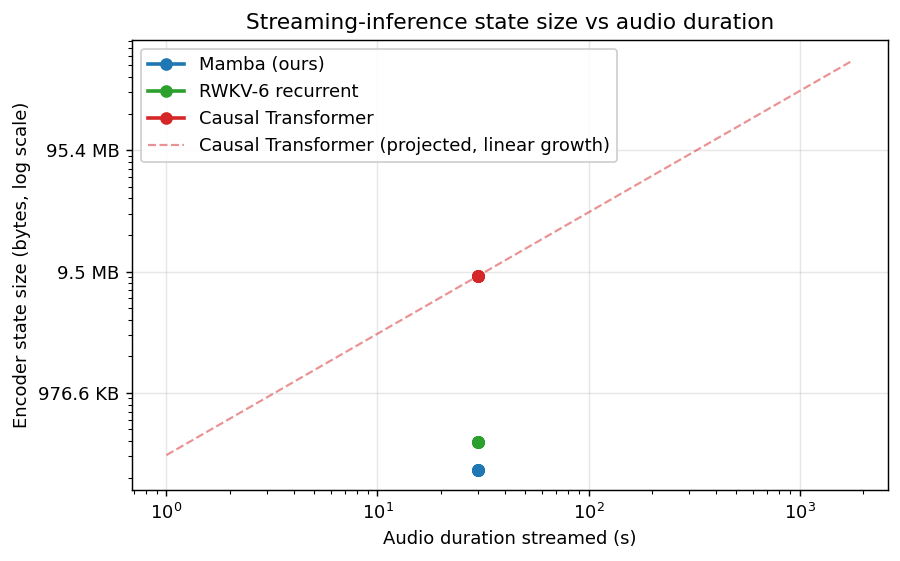
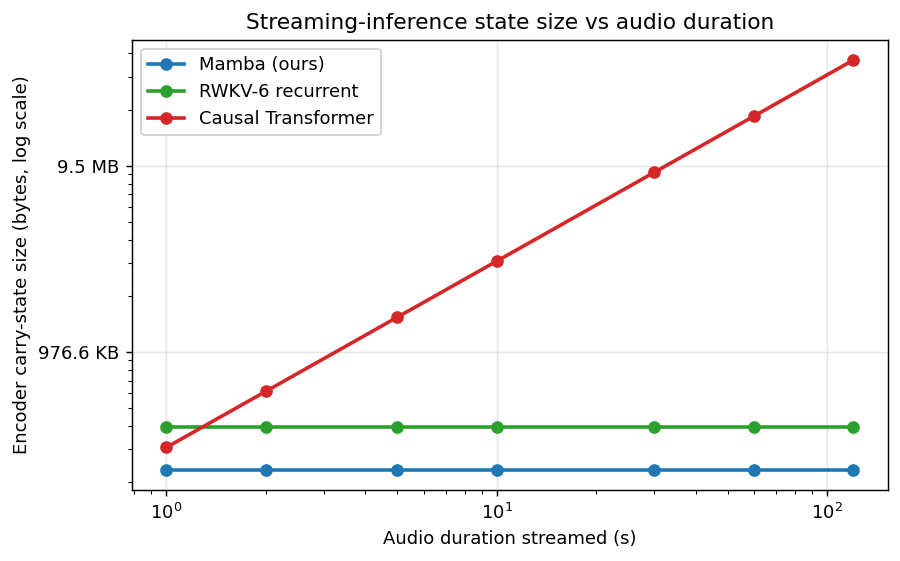
measure_streaming_memory: sweep audio duration instead of chunk size
The first pass measured state size at 6 different chunk sizes but always
at the same 30-second total duration, so all points stacked on top of
each other in the plot. Constant-state backbones need variation in the
*total streamed duration* to reveal the flat-line shape.

New behavior: for each backbone, stream synthetic post-frontend features
of lengths {1, 2, 5, 10, 30, 60, 120} seconds through the encoder in
fixed 2-second chunks, and record the final carry-state size.

Measured result (d_model=256, n_layers=6):
  Mamba:               228 KB  (flat across all durations)
  RWKV-6:              384 KB  (flat across all durations)
  Causal Transformer: 300 KB → 36 MB  (linear growth, 1 s → 120 s)

Plot module no longer needs a projected-growth dashed line — the measured
points span two orders of magnitude on their own and the shape is
self-evident.

diff --git a/experiments/formal_v1/scripts/measure_streaming_memory.py b/experiments/formal_v1/scripts/measure_streaming_memory.py
@@ -43,11 +43,14 @@ from src.models.encoder import build_encoder
 
 SUPPORTED_BACKBONES = ["mamba", "rwkv6", "transformer_causal"]
 
-# The chunk lengths we sweep, in seconds of raw audio. With the standard
-# 10 ms hop and 4× downsampling in the frontend, each chunk corresponds to
-# chunk_sec * 25 post-frontend frames.
-CHUNK_SECONDS = [0.5, 1.0, 2.0, 5.0, 10.0, 30.0]
-TOTAL_DURATION_SEC = 30.0
+# Total durations swept to show state-size-vs-duration. Each entry is the
+# amount of streamed audio the encoder is forced to carry state through.
+DURATIONS_SEC = [1.0, 2.0, 5.0, 10.0, 30.0, 60.0, 120.0]
+
+# Streaming chunk length (fixed across durations). 2 s is roughly the
+# latency budget of typical real-time ASR; the plot shape does not depend
+# on this value for constant-state backbones.
+CHUNK_SEC = 2.0
 
 
 def _state_bytes(state) -> int:
@@ -79,25 +82,31 @@ def _make_fake_frontend_output(
 def measure_backbone(
     backbone: str,
     device: torch.device,
-    chunk_seconds: Iterable[float] = CHUNK_SECONDS,
-    total_duration_sec: float = TOTAL_DURATION_SEC,
+    durations_sec: Iterable[float] = DURATIONS_SEC,
+    chunk_sec: float = CHUNK_SEC,
 ) -> list[dict]:
-    """Stream a simulated utterance through an encoder, measure state size."""
+    """Sweep total-audio-duration, measure encoder carry-state size.
+
+    For each target duration, the encoder is streamed through ``duration_sec``
+    of synthetic post-frontend features in chunks of length ``chunk_sec`` and
+    the final carry state is measured. Constant-state backbones (Mamba,
+    RWKV-6) produce a flat line; growing-state backbones (causal Transformer
+    with KV cache) produce a linear line.
+    """
     cfg = ExperimentConfig()
     cfg.backbone = backbone
     encoder = build_encoder(cfg).to(device).eval()
 
     rows: list[dict] = []
 
-    for chunk_sec in chunk_seconds:
-        x_full = _make_fake_frontend_output(total_duration_sec, cfg, device)
+    for duration_sec in durations_sec:
+        x_full = _make_fake_frontend_output(duration_sec, cfg, device)
         T_full = x_full.shape[1]
-
-        # Number of frames per chunk, clamped to at least 1.
         chunk_frames = max(1, int(chunk_sec * 1000 / cfg.hop_length_ms) // 4)
 
         state = encoder.init_state(batch_size=1, device=device)
-        torch.cuda.reset_peak_memory_stats(device) if device.type == "cuda" else None
+        if device.type == "cuda":
+            torch.cuda.reset_peak_memory_stats(device)
 
         frames_seen = 0
         final_state = state

diff --git a/experiments/formal_v1/src/reporting/plots/streaming_memory.py b/experiments/formal_v1/src/reporting/plots/streaming_memory.py
@@ -71,6 +71,8 @@ def render(input_csv: Path, output_png: Path) -> None:
     })
     fig, ax = plt.subplots()
 
+    # Use measured points only; the script sweeps duration explicitly so
+    # the shape of each line is a direct measurement, not a projection.
     for backbone, sub in df.groupby("backbone"):
         sub_sorted = sub.sort_values("duration_sec")
         style = BACKBONE_STYLE.get(backbone, {"label": backbone, "color": "tab:gray"})
@@ -79,23 +81,10 @@ def render(input_csv: Path, output_png: Path) -> None:
             marker="o", label=style["label"], color=style["color"], linewidth=2,
         )
 
-        # For the causal Transformer, project a theoretical growth line
-        # from the smallest-chunk data point out to a longer duration.
-        if backbone == "transformer_causal" and len(sub_sorted) >= 1:
-            point = sub_sorted.iloc[0]
-            bytes_per_sec = point["state_bytes"] / max(point["duration_sec"], 1e-6)
-            proj_x = [1, 5, 10, 30, 60, 300, 1800]
-            proj_y = [bytes_per_sec * d for d in proj_x]
-            ax.plot(
-                proj_x, proj_y, "--",
-                color=style["color"], alpha=0.5, linewidth=1.2,
-                label=f"{style['label']} (projected, linear growth)",
-            )
-
     ax.set_yscale("log")
     ax.set_xscale("log")
     ax.set_xlabel("Audio duration streamed (s)")
-    ax.set_ylabel("Encoder state size (bytes, log scale)")
+    ax.set_ylabel("Encoder carry-state size (bytes, log scale)")
     ax.set_title("Streaming-inference state size vs audio duration")
     ax.yaxis.set_major_formatter(plt.FuncFormatter(_fmt_bytes))
     ax.legend(loc="upper left", framealpha=0.9)
